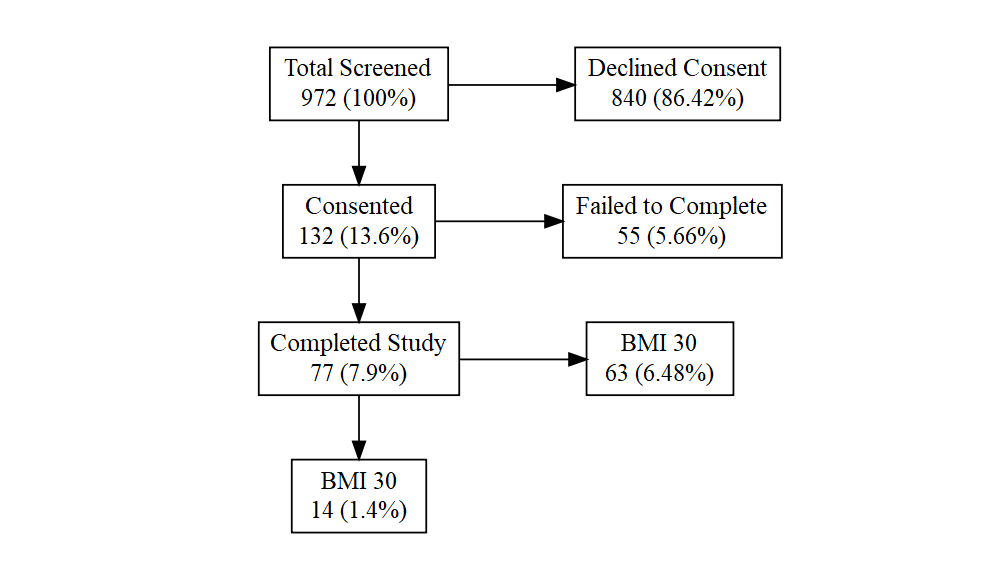
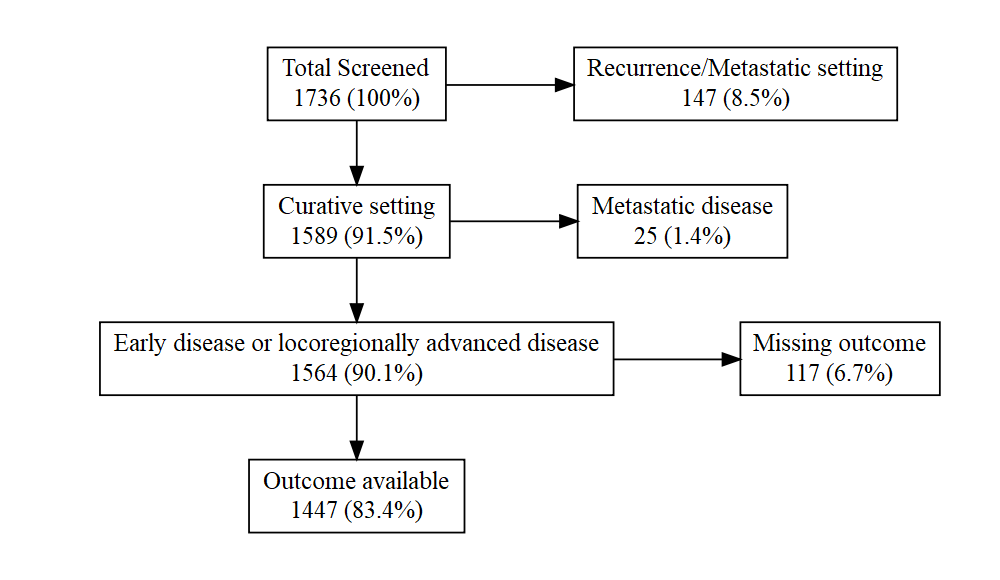
base model OS

diff --git a/PRISMA_flowcharts_markdown.md b/PRISMA_flowcharts_markdown.md
@@ -1,6 +1,9 @@
 PRISMA flowcharts
 ================
 
+The aim of this script is to make PRISMA flowcharts for different
+clinical scenarios and outcomes. The number of patients in each group is
+copied from a secure server for sensitive data (not available here).
 Start by loading the library.
 
 ``` r
@@ -13,9 +16,10 @@ Next, make an exclusion flowchart for the base clinical model with
 overall survival as outcome:
 
 ``` r
-flow_exclusions(incl_counts = c(972, 132, 77, 14), total_label = "Total Screened",
-    incl_labels = c("Consented", "Completed Study", "BMI 30"), excl_labels = c("Declined Consent",
-        "Failed to Complete", "BMI 30"), percent_of_total = TRUE)
+flow_exclusions(incl_counts = c(1736, 1589, 1564, 1447), total_label = "Total Screened",
+    incl_labels = c("Curative setting", "Early disease or locoregionally advanced disease",
+        "Outcome available"), excl_labels = c("Recurrence/Metastatic setting", "Metastatic disease",
+        "Missing outcome"), percent_of_total = TRUE)
 ```
 
 ![](PRISMA_flowcharts_markdown_files/figure-gfm/base%20clinical%20OS-1.png)<!-- -->
